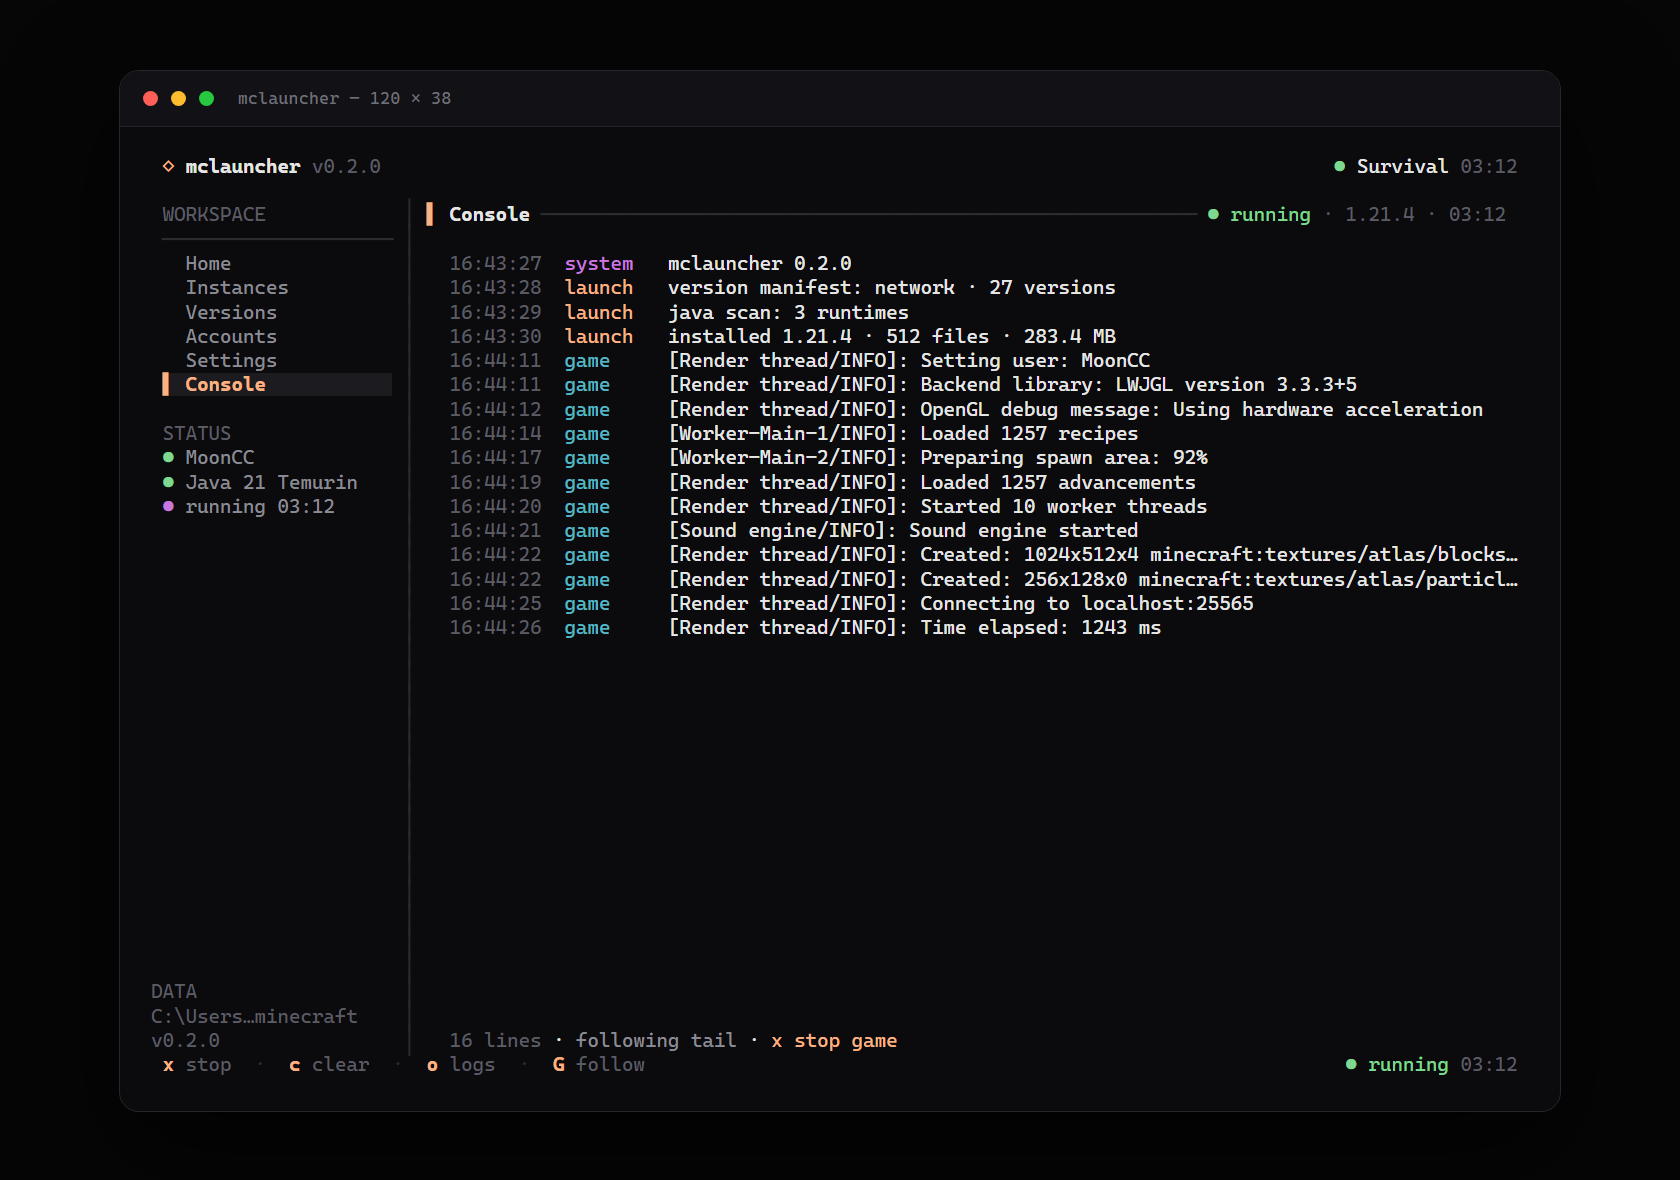
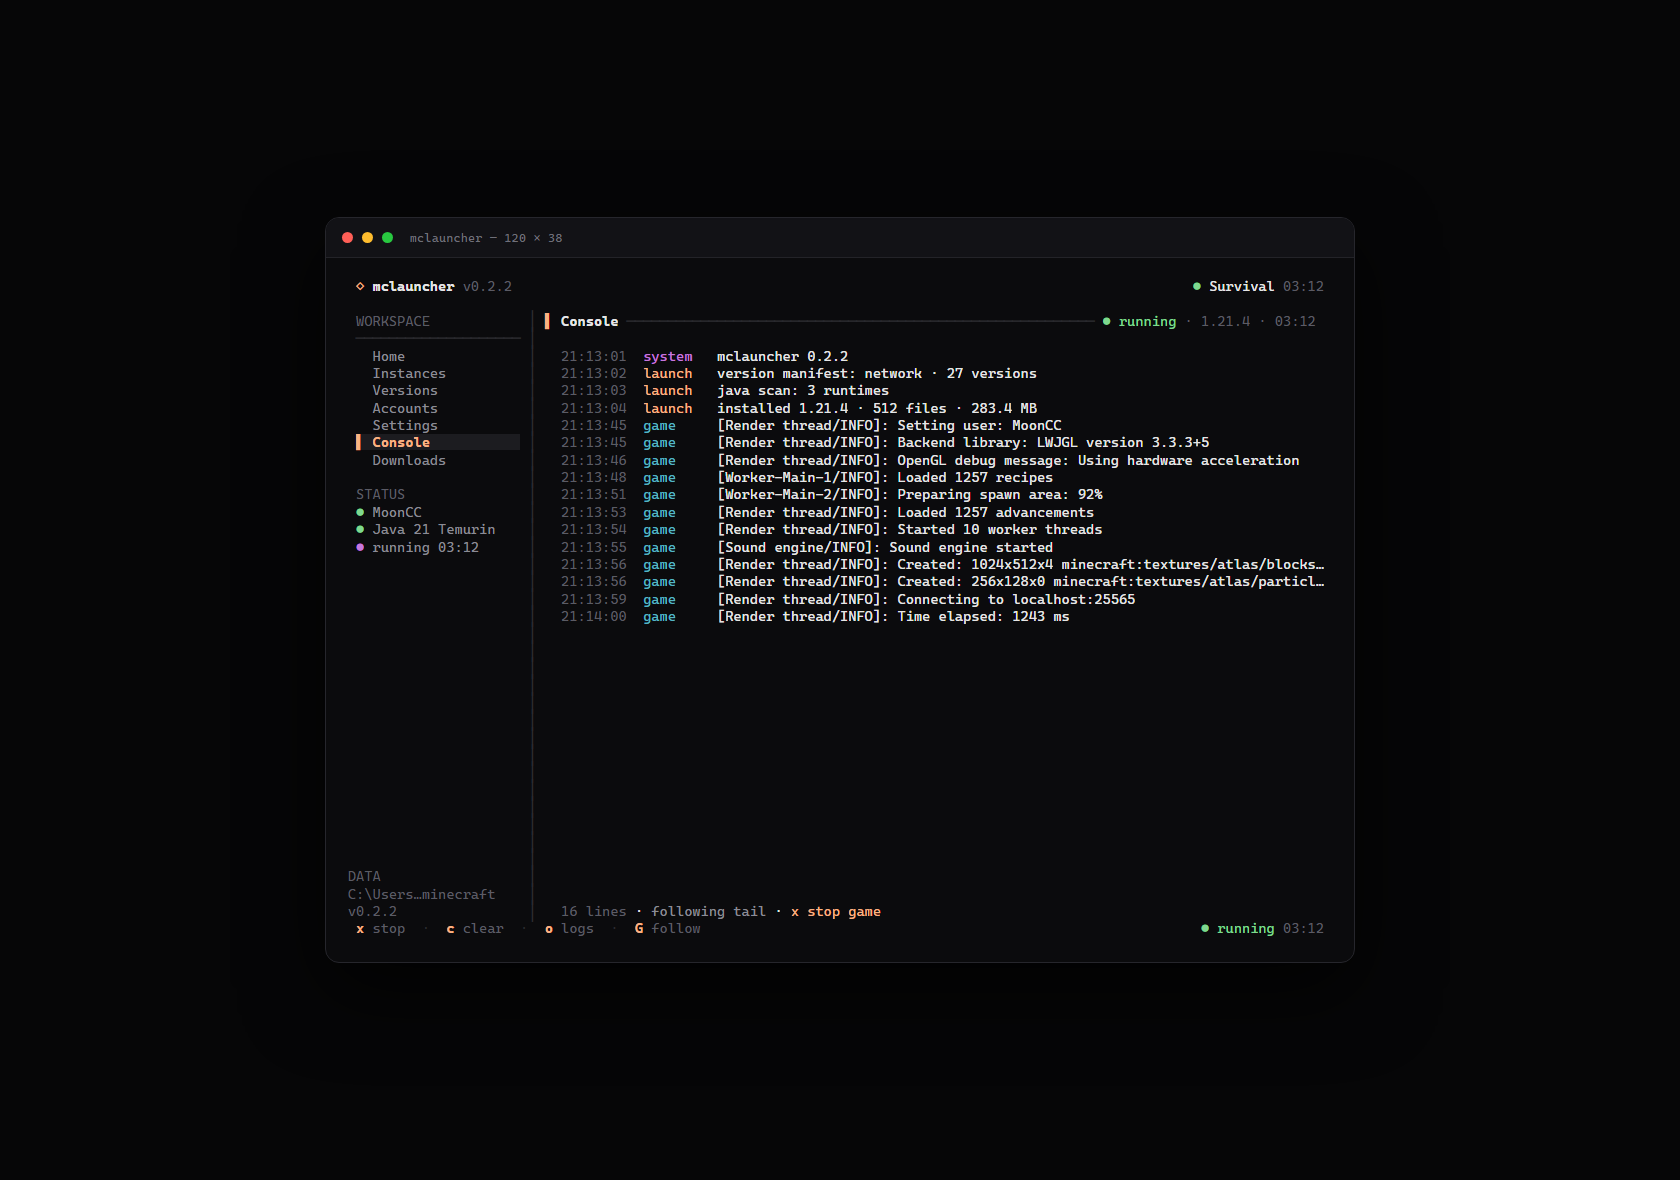
docs: add v0.2.2 release notes and screenshots

diff --git a/internal/tui/preview.go b/internal/tui/preview.go
@@ -46,7 +46,7 @@ func Preview(screenName string, width, height int, language ...string) string {
 	}
 
 	layout := paths.New(`C:\Users\MoonCC\MCLauncher\.minecraft`)
-	m := New(cfg, layout, nil, "0.2.1", "")
+	m := New(cfg, layout, nil, "0.2.2", "")
 	// Previews must be deterministic and must not read a real data directory.
 	m.taskHistory = nil
 	m.width = width
@@ -101,7 +101,7 @@ func Preview(screenName string, width, height int, language ...string) string {
 	push := func(source, text string, ago time.Duration) {
 		m.logs = append(m.logs, LogLine{At: now.Add(-ago), Source: source, Text: text})
 	}
-	push("system", "mclauncher 0.2.1", 62*time.Second)
+	push("system", "mclauncher 0.2.2", 62*time.Second)
 	push("launcher", "version manifest: network · 27 versions", 61*time.Second)
 	push("launcher", "java scan: 3 runtimes", 60*time.Second)
 	push("launcher", "installed 1.21.4 · 512 files · 283.4 MB", 59*time.Second)

diff --git a/docs/releases/v0.2.2.md b/docs/releases/v0.2.2.md
@@ -1,0 +1,102 @@
+## 更新详情
+
+v0.2.2 是一次覆盖启动器主要流程的功能版本：首页加入可切换字形与动效的 ASCII 标题；`Versions` 支持 Fabric、Quilt、Forge、NeoForge 与 OptiFine；`Instances` 新增实例模组面板；Java 运行时可跨磁盘扫描并直接下载 Temurin JDK；`Downloads` 历史改为持久化；设置里可以检查并安装启动器更新；退出启动器时会一并停止游戏进程。
+
+### 首页标题与动效
+
+- 首页标题改为四行 ASCII 大字 `MCTL`，支持 `Block`（实心方块）和 `Line`（线条）两种字形。
+- 新增 `Sheen`（扫光）、`Wave`（流动）、`Breathe`（呼吸）和 `Off`（静态）四种动效，可在设置中切换，也可在设置行直接按 `←` / `→` 循环切换。
+- 标题颜色跟随当前主题与强调色；窄终端会自动回退为单行文字。
+- 标题只有在首页且没有弹窗时才会运行动画，减少空闲刷新。
+
+### 模组加载器
+
+- `Versions` 按 `l` 打开加载器面板，可选择 Fabric、Quilt、Forge、NeoForge 或 OptiFine。
+- Fabric / Quilt 使用官方 meta profile；Forge / NeoForge 使用 Maven 安装器；OptiFine 使用本地 `OptiFine_<version>_<edition>.jar` 运行 Patcher。
+- 加载器会注册为独立本地版本，通过 `inheritsFrom` 继承原版，实例继续引用加载器版本，不复制共享库和资源。
+- Forge / NeoForge 会先下载并校验安装器依赖，再以离线模式运行安装器，避免官方站点探测和慢镜像导致长时间卡住。
+- NeoForge 支持 1.20.1 和 1.20.2+ 的版本格式，并统一登记为 `<mc>-neoforge-<version>`，避免与 Forge 版本目录冲突。
+- 加载器版本列表、Fabric Maven、NeoForge Maven 都支持可选镜像，可指向 USTC / BMCLAPI 等加速节点。
+- OptiFine 生成补丁客户端、launchwrapper 和 `--tweakClass` 参数，启动时使用补丁 jar。
+
+### 实例模组管理
+
+- `Instances` 按 `m` 打开所选实例的模组面板。
+- 支持添加本地 `.jar`、启用/禁用、删除、重新扫描和打开模组目录。
+- 读取 Fabric、Quilt、Forge、NeoForge 与旧版 Forge 的元数据，显示模组名称、版本和适用加载器。
+- 禁用的模组会重命名为 `.jar.disabled`，再次启用时恢复 `.jar`。
+
+### Java 运行时
+
+- 扫描范围扩展到 PATH 的每一项、`JAVA_HOME`、`JDK_HOME`、`JRE_HOME`、Windows 注册表、所有 Windows 固定磁盘的常见 Java 目录，以及 IntelliJ / PyCharm / Android Studio 自带运行时。
+- 修复了 `bin/java` 通配符匹配被当作目录而丢弃的问题；D 盘等非系统盘的 Java 现在可以被发现。
+- Java 选择器底部可直接下载 Adoptium Temurin JDK 8、17 或 21。
+- JDK 下载支持 HTTP Range 断点续传、SHA-256 校验和 GitHub 镜像加速；下载完成后解压到数据目录的 `java/temurin-<版本>/`，自动设为当前运行时并重新扫描。
+- 设置中的 Java 运行时行仍支持手动输入 `java.exe` 或 JDK 目录。
+
+### 下载历史
+
+- `Downloads` 的最近 20 条任务记录改为持久化保存到数据目录的 `downloads-history.json`。
+- 启动器启动时自动加载；切换数据目录时会加载新目录的历史。
+- 文件损坏时会安全忽略，不影响启动器启动。
+- 任务完成、失败或取消后立即原子写入，退出启动器后仍可查看。
+
+### 应用内更新
+
+- 在 `Settings` 的 `Launcher version` 行按 `enter` 检查 GitHub Releases。
+- 支持下载当前平台对应的启动器压缩包，校验 SHA-256 后替换可执行文件，重启启动器完成升级。
+- GitHub 无法直连时会自动尝试 `gh-proxy.com`、`ghfast.top`、`ghproxy.net` 等镜像，也可用 `MCLAUNCHER_UPDATE_MIRROR` 指定镜像前缀。
+- 开发版（`dev`）不会执行更新检查。
+- Windows 下采用“先移走旧可执行文件、再写入新文件”的方式替换正在运行的启动器；旧文件会在下次启动时清理。
+
+### 退出与进程
+
+- 退出启动器（`q` / `ctrl+c` / 正常退出）时会先停止由它启动的游戏进程，不再留下后台 Java 进程。
+- 先尝试正常停止并等待最多 2 秒，超时后强制结束整个进程树；再等待最多 1 秒确保退出。
+- 游戏启动绑定到启动任务上下文，覆盖“Java 已启动但游戏状态尚未写入界面”的短暂窗口。
+- Bubble Tea 异常退出时也会执行一次游戏进程清理。
+
+### 修复与改进
+
+- 修复 Java 扫描只接受目录匹配、导致大量 `.../bin/java` 候选被丢弃的问题。
+- 加载器版本列表的超时从 45 秒放宽到 90 秒，减少慢网络下误报失败。
+- 修复 Forge 安装器的证书探测卡死、镜像路径拼接错误和依赖库下载不稳定问题。
+- 修复 OptiFine 本地库被错误补全为远程下载地址的问题。
+- 修复 NeoForge 1.20.1 与 Forge 版本目录重名的问题。
+- 改善慢镜像下的下载体验：增加下载停滞检测、镜像回退和下载历史持久化。
+- 更新了 README、预览页面和全部文档截图。
+
+### 平台与兼容性
+
+- Windows、Linux、macOS 的 `amd64` / `arm64` 构建目标保持不变。
+- 旧版 `config.json`、账户、实例、数据目录和已安装版本继续兼容。
+- 新增数据文件：`downloads-history.json`（下载历史）和 `java/`（启动器内下载的 JDK）。
+- 加载器版本使用独立的 `<mc>-forge-<version>`、`<mc>-neoforge-<version>`、`fabric-loader-<version>-<mc>`、`quilt-loader-<version>-<mc>` 或 `<mc>-OptiFine-<edition>` 目录。
+- JDK 下载使用 Adoptium API 解析版本，实际文件优先走 GitHub 镜像；具体可用版本取决于平台。
+- 应用内更新适用于正式发布版；从源码构建的 `dev` 版本会提示无法检查更新。
+
+### 升级说明
+
+可以直接使用应用内更新，或下载新版本压缩包替换旧可执行文件；不需要迁移数据或修改配置。
+
+1. 关闭正在运行的启动器和游戏。
+2. 用新版本压缩包中的可执行文件替换旧文件，或在 `Settings → Launcher version` 中检查更新。
+3. 启动后原有的账户、实例、主题、数据目录和已安装版本都会保留。
+
+如果之前通过 `--data-dir` 或 `MCLAUNCHER_DATA_DIR` 指定了数据目录，升级后继续使用相同参数即可。下载历史会保留在对应数据目录的 `downloads-history.json` 中。
+
+### 安装
+
+从下方 Assets 下载对应平台的压缩包：
+
+- Windows：`mclauncher_0.2.2_windows_amd64.zip` / `mclauncher_0.2.2_windows_arm64.zip`
+- Linux：`mclauncher_0.2.2_linux_amd64.tar.gz` / `mclauncher_0.2.2_linux_arm64.tar.gz`
+- macOS：`mclauncher_0.2.2_darwin_amd64.tar.gz` / `mclauncher_0.2.2_darwin_arm64.tar.gz`
+
+校验和见 `checksums.txt`。macOS 首次运行如被系统拦截：
+
+```bash
+xattr -d com.apple.quarantine ./mclauncher
+```
+
+**完整变更**：https://github.com/MoonCC233/MCLauncher-TUI/compare/v0.2.1...v0.2.2
